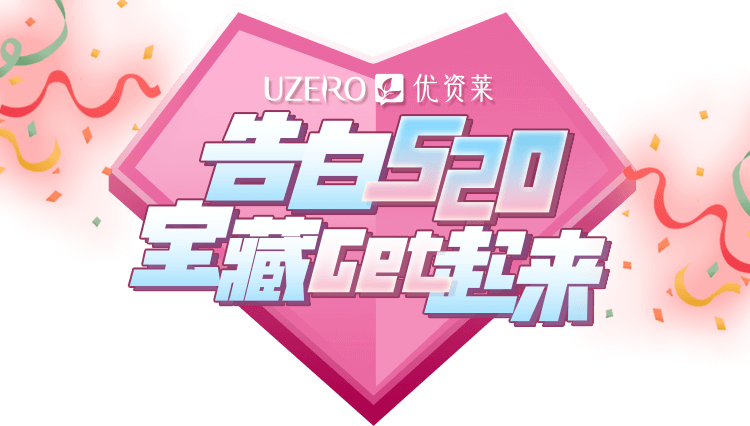
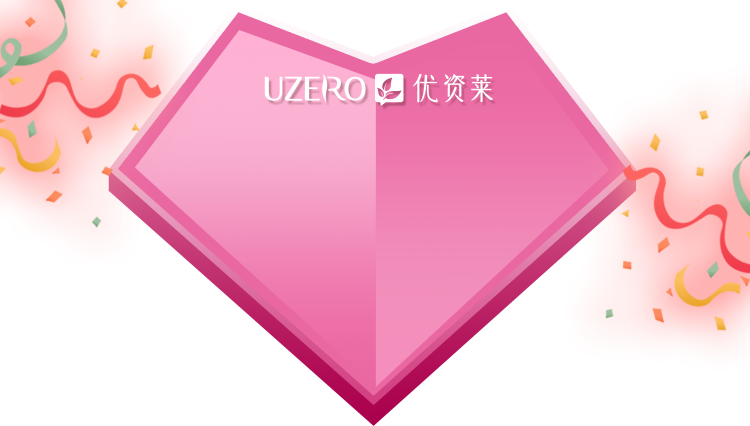
111111

Changed region(s): [[0.1533, 0.2441, 0.828, 0.7934]]

diff --git a/css/index.css b/css/index.css
@@ -62,7 +62,7 @@ body {
   z-index: 10;
   width: 100%;
   height: 100%;
-  background-image: url('../resource/bg_l.jpg?1556194430');
+  background-image: url('../resource/bg_l.jpg?1556197239');
   background-size: cover;
   display: flex;
   align-items: center;
@@ -81,7 +81,7 @@ body {
 .scene-loading .yh {
   width: 4.42rem;
   height: 4.42rem;
-  background: url('../resource/yh.png?1556194430') no-repeat;
+  background: url('../resource/yh.png?1556197239') no-repeat;
   background-size: 100% 100%;
   position: relative;
   top: 20%;
@@ -89,7 +89,7 @@ body {
 .scene-loading .by {
   width: 4.42rem;
   height: 4.42rem;
-  background: url('../resource/by.png?1556194430') no-repeat;
+  background: url('../resource/by.png?1556197239') no-repeat;
   background-size: 100% 100%;
   position: absolute;
   margin: auto;
@@ -110,7 +110,7 @@ body {
 }
 .scene-loading .logo {
   margin: auto;
-  background: url('../resource/logo.png?1556194430') no-repeat;
+  background: url('../resource/logo.png?1556197239') no-repeat;
   background-size: 100% 100%;
   width: 3.01rem;
   height: 0.42rem;

diff --git a/index.html b/index.html
@@ -10,7 +10,7 @@
 <meta name="x5-fullscreen" content="true" />
 <meta name="360-fullscreen" content="true" />
 <link rel="stylesheet" type="text/css" href="css/sarea.css">
-<link rel="stylesheet" type="text/css" href="css/index.css?1556194430" />
+<link rel="stylesheet" type="text/css" href="css/index.css?1556197239" />
 <!--kone todo :以后不默认加派加统计了-->
 </head>
 <body>
@@ -37,7 +37,7 @@
 
 <!---->
 <script>
-    var BIN_VER = 1556194430
+    var BIN_VER = 1556197239
     var carry;
     !function(carry) {
         carry.loadImgByAry = function(imgAry, func) {
@@ -108,7 +108,7 @@
 
         //init carry & HDP平台        
         var cryjs = 'public/carry.min.js?' + BIN_VER
-        var asUrl = 'interface/as-520.js?1556194430'
+        var asUrl = 'interface/as-520.js?1556197239'
         if(carry.isLocal) {
             cryjs = 'public/carry.js'
             asUrl = 'interface/asLocal-tmp.js'

diff --git a/src/HomeLayer.ts b/src/HomeLayer.ts
@@ -12,11 +12,32 @@ export class HomeLayer extends Scene {
     private myPrizeBtn:eui.Button
     private ruleBtn:eui.Button
 
+
+    private titleImg:eui.Image
+    private xin1Img:eui.Image
+    private qq1Img:eui.Image
+
     public fitUi() {
         super.fitUi()
     }
     constructor() {
         super(HomeLayerSkin)
+
+        egret.Tween.get(this.titleImg, {loop: true})
+        .to({scaleX:1.1, scaleY:1.1}, 600)
+        .to({scaleX:1, scaleY:1}, 600)
+
+        egret.Tween.get(this.xin1Img, {loop: true})
+        .to({scaleX:1.2, scaleY:1.2, rotation: 30}, 600)
+        .to({scaleX:1, scaleY:1, rotation:0}, 600)
+
+        var oldTop = this.qq1Img.top
+        if(oldTop) {
+            egret.Tween.get(this.qq1Img, {loop: true})
+            .to({top: oldTop - 30}, 800)
+            .to({top: oldTop}, 800)
+        }
+
 
         // 
         jinx.addTapEvent(this.loveBtn, this.ontapLove, this)
